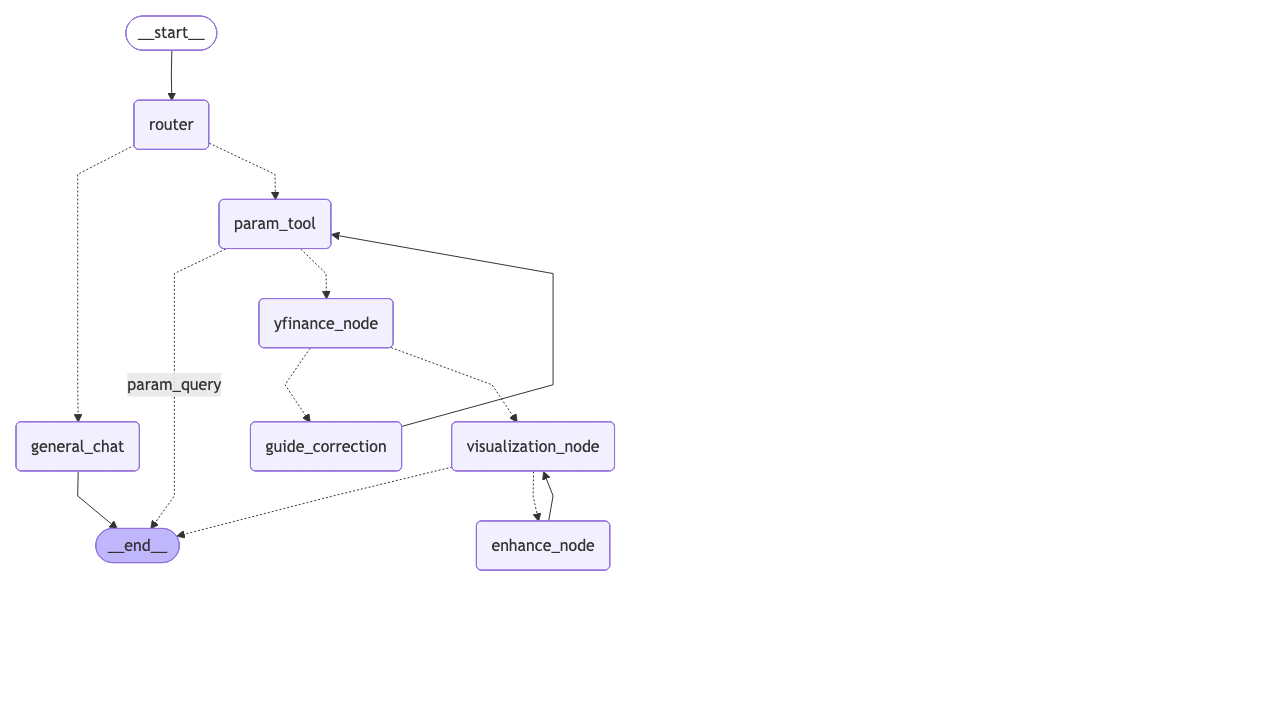
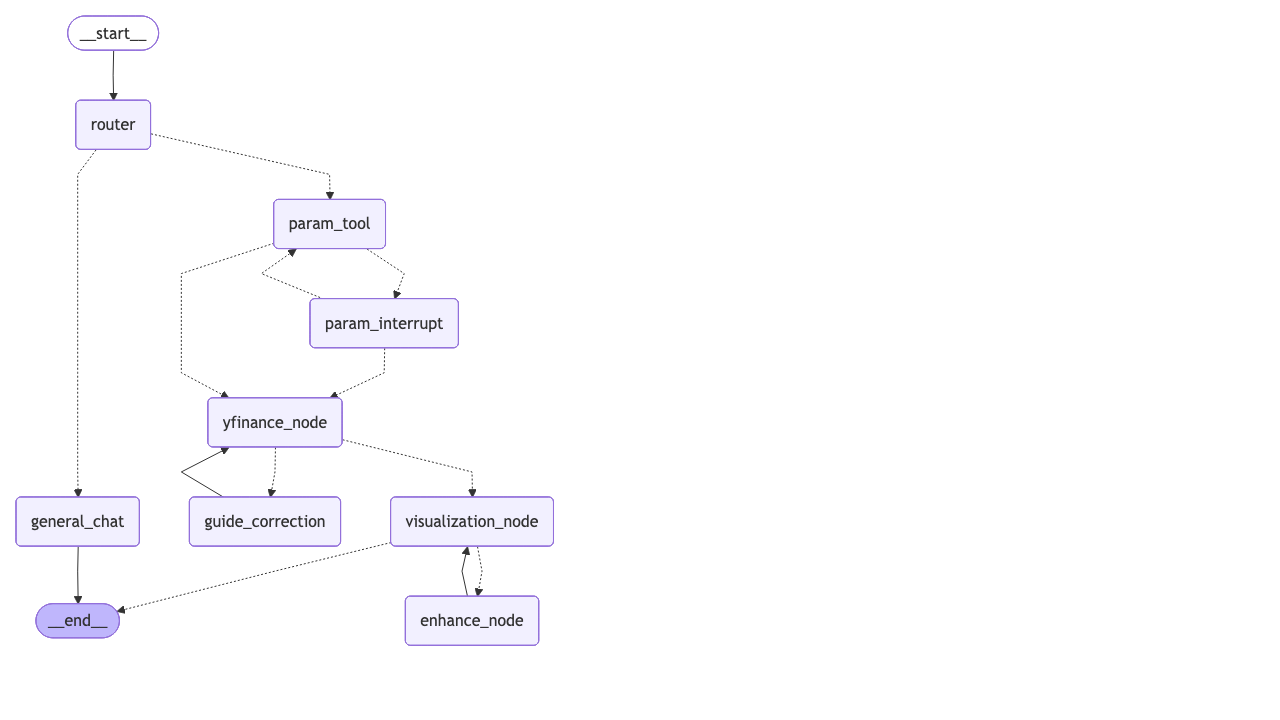
parameter 추출 완료

diff --git a/src/tools/param_tool.py b/src/tools/param_tool.py
@@ -1,16 +1,137 @@
 """
 Param Tool: 차트 생성에 필요한 파라미터 점검 및 보완
 """
-from typing import Dict, Any
-from ..schemas import State
+from typing import Dict, Any, List, Literal
+from langchain.chat_models import init_chat_model
+from langgraph.store.base import BaseStore
+from langgraph.types import interrupt, Command
+from ..schemas import State, ParamExtractionSchema
+from ..prompts import PARAM_EXTRACTION_SYSTEM_PROMPT, PARAM_EXTRACTION_USER_PROMPT
 
 
-def param_tool(state: State) -> State:
+def get_param_conversation(store: BaseStore, namespace: tuple) -> str:
+    """Store에서 파라미터 수집 대화 히스토리 가져오기"""
+    try:
+        memories = store.search(namespace)
+        if memories:
+            return memories[-1].value
+        return "파라미터 수집 대화 없음"
+    except:
+        return "파라미터 수집 대화 없음"
+
+
+def update_param_conversation(store: BaseStore, namespace: tuple, user_message: str, ai_response: str):
+    """Store에 파라미터 수집 대화 업데이트"""
+    import uuid
+    
+    existing_history = get_param_conversation(store, namespace)
+    new_entry = f"사용자: {user_message}\nAI: {ai_response}"
+    updated_history = f"{existing_history}\n{new_entry}" if existing_history != "파라미터 수집 대화 없음" else new_entry
+    
+    memory_id = str(uuid.uuid4())
+    store.put(namespace, memory_id, {"param_conversation": updated_history})
+
+
+def param_tool(state: State, store: BaseStore) -> State:
     """
     Param Tool: 차트 생성에 필요한 파라미터 점검 및 보완
     - ticker, period, interval 필수 파라미터 추출
     - 부족한 파라미터 사용자에게 질의
+    - MessagesState를 통한 대화 히스토리 관리
     """
     print("🔧 Param Tool 실행 중...")
-    # TODO: 구현
-    return {"params_complete": True, "chart_params": {"ticker": "NVDA", "period": "1y", "interval": "1d"}}
+    
+    # LLM 초기화
+    llm = init_chat_model("openai:gpt-4o", temperature=0.0)
+    llm_param = llm.with_structured_output(ParamExtractionSchema)
+    
+    # LLM 호출 - state["messages"]를 사용하여 전체 대화 히스토리 전달
+    # ❓ 전체 대화 히스토리 전달하는게 낫겠지?
+    result = llm_param.invoke([
+        {"role": "system", "content": PARAM_EXTRACTION_SYSTEM_PROMPT}
+    ] + state["messages"])
+    
+    print(f"파라미터 추출 결과: {result}")
+    
+    # 파라미터 완성도 확인
+    if result.is_complete:
+        # 모든 파라미터가 있으면 다음 단계로
+        chart_params = {
+            "ticker": result.ticker,
+            "period": result.period or "1y",
+            "interval": result.interval or "1d",
+            "chart_type": result.chart_type or "candlestick",
+            "indicators": result.indicators or ["MA", "Volume"]
+        }
+        
+        print(f"✅ 파라미터 수집 완료: {chart_params}")
+        
+        return {
+            "params_complete": True,
+            "chart_params": chart_params,
+            "messages": [{"role": "assistant", "content": f"파라미터 수집이 완료되었습니다: {chart_params}"}]
+        }
+    else:
+        # 부족한 파라미터가 있으면 사용자에게 질의
+        missing_params = result.missing_params
+        response = f"차트 생성을 위해 다음 정보가 필요합니다:\n"
+        
+        if "period" in missing_params:
+            response += "• 기간을 선택해주세요: 1일, 1주, 1개월, 3개월, 6개월, 1년, 2년\n"
+        if "interval" in missing_params:
+            response += "• 간격을 선택해주세요: 1분, 5분, 15분, 1시간, 4시간, 1일\n"
+        if "chart_type" in missing_params:
+            response += "• 차트 타입을 선택해주세요: 캔들스틱(기본), 라인, 바, 영역\n"
+        if "indicators" in missing_params:
+            response += "• 지표를 선택해주세요 (여러 개 선택 가능): 종가, 이동평균, RSI, MACD, 거래량, 볼린저밴드\n"
+        
+        print(f"❓ 부족한 파라미터: {missing_params}")
+        
+        # Interrupt 없이 응답만 반환 (interrupt handler에서 처리)
+        return {
+            "params_complete": False,
+            "chart_output": response,
+            "missing_params": missing_params,
+            "messages": [{"role": "assistant", "content": response}]
+        }
+
+
+def param_interrupt_handler(state: State) -> Command[Literal["param_tool", "yfinance_node"]]:
+    """파라미터 수집 중 사용자 입력을 받는 interrupt handler"""
+    
+    # 파라미터가 완성되었으면 yfinance_node로 이동
+    if state.get("params_complete"):
+        print("✅ 파라미터 수집 완료 → yfinance_node로 이동")
+        return Command(goto="yfinance_node")
+    
+    # 파라미터가 부족하면 사용자 입력을 기다림 (interrupt 발생)
+    print("⏸  파라미터 부족 → interrupt 발생, 사용자 입력 대기 중...")
+    
+    # Interrupt request 생성
+    missing_params = state.get("missing_params", []) # 부족한 파라미터를 가져옴
+    response_message = state.get("chart_output", "") # 응답 메시지를 가져옴
+    
+    # request: 어떤 parameter가 부족한지 설정
+    request = {
+        "action_request": {
+            "action": "파라미터 수집",
+            "args": {"missing": missing_params} # 부족한 파라미터를 설정
+        },
+        "description": response_message, # 응답 메시지를 설정
+    }
+    
+    # Interrupt 호출 - 워크플로우를 멈추고 외부에서 resume을 기다림
+    user_input = interrupt([request])[0]
+    
+    # Resume으로 받은 사용자 입력 처리
+    print(f"▶  사용자 입력 받음: {user_input}")
+    
+    # 기존 messages에 사용자 입력 추가
+    existing_messages = state.get("messages", [])
+    updated_messages = existing_messages + [{"role": "user", "content": user_input}] # 기존 messages에 사용자 입력 추가
+    
+    # param_tool로 돌아가서 재검증
+    return Command(
+        goto="param_tool",
+        update={"messages": updated_messages, "user_message": user_input}
+    )

diff --git a/main.py b/main.py
@@ -24,7 +24,10 @@ if __name__ == "__main__":
     print("종료하려면 'quit' 또는 'exit'를 입력하세요.\n")
     
     # Thread ID 설정 (대화 세션 관리)
-    thread_id = "user_session_1"
+    import uuid
+    from langgraph.types import Command
+    
+    thread_id = str(uuid.uuid4())
     config = {"configurable": {"thread_id": thread_id}}
     
     while True:
@@ -42,20 +45,75 @@ if __name__ == "__main__":
                 print("❌ 메시지를 입력해주세요.")
                 continue
             
-            # 워크플로우 실행
+            print("🔄 처리 중...")
+            
+            # 워크플로우 시작
             initial_state = {
                 "user_message": user_input,
-                "enhancement_mode": False
+                "enhancement_mode": False,
+                "messages": [{"role": "user", "content": user_input}]
             }
             
-            print("🔄 처리 중...")
-            result = workflow.invoke(initial_state, config)
+            # Stream으로 실행하여 interrupt 감지
+            max_interrupts = 3  # 최대 3번까지 interrupt 처리
+            interrupt_count = 0
             
-            # 결과 출력
-            if "chart_output" in result:
-                print(f"🤖 AI: {result['chart_output']}")
+            # 첫 실행
+            for chunk in workflow.stream(initial_state, config):
+                if '__interrupt__' in chunk:
+                    interrupt_count += 1
+                    break
+            
+            # Interrupt 처리 루프 (최대 3번)
+            while interrupt_count > 0 and interrupt_count <= max_interrupts:
+                # 현재 상태에서 interrupt 정보 가져오기
+                state = workflow.get_state(config)
+                if not state.next:  # interrupt가 없으면 종료
+                    break
+                
+                # Interrupt 메시지 출력
+                current_values = state.values
+                if "chart_output" in current_values:
+                    print(f"🤖 AI: {current_values['chart_output']}")
+                print("-" * 50)
+                
+                # 사용자 입력 받기
+                while True:
+                    additional_input = input("💬 사용자: ").strip()
+                    
+                    if additional_input.lower() in ['quit', 'exit', '종료']:
+                        print("👋 시스템을 종료합니다.")
+                        exit(0)
+                    
+                    if additional_input:
+                        break
+                    print("❌ 메시지를 입력해주세요.")
+                
+                print("🔄 처리 중...")
+                
+                # Resume: Command로 사용자 입력 전달
+                has_interrupt = False
+                for resume_chunk in workflow.stream(
+                    Command(resume=[additional_input]), 
+                    config
+                ):
+                    if '__interrupt__' in resume_chunk:
+                        has_interrupt = True
+                        interrupt_count += 1
+                        break
+                
+                # Interrupt가 더 이상 없으면 루프 종료
+                if not has_interrupt:
+                    break
+            
+            # 최종 결과 확인
+            state = workflow.get_state(config)
+            final_values = state.values
+            
+            if "chart_output" in final_values:
+                print(f"🤖 AI: {final_values['chart_output']}")
             else:
-                print(f"🤖 AI: {result}")
+                print(f"✅ 작업이 완료되었습니다.")
             
             print("-" * 50)
             
@@ -64,4 +122,6 @@ if __name__ == "__main__":
             break
         except Exception as e:
             print(f"❌ 오류가 발생했습니다: {e}")
+            import traceback
+            traceback.print_exc()
             print("-" * 50)

diff --git a/src/workflow/workflow.py b/src/workflow/workflow.py
@@ -7,7 +7,7 @@ from langgraph.store.memory import InMemoryStore
 from ..schemas import State
 from ..agents.router_agent import router_agent
 from ..agents.general_chat_agent import general_chat_agent
-from ..tools.param_tool import param_tool
+from ..tools.param_tool import param_tool, param_interrupt_handler
 from ..tools.yfinance_tool import yfinance_node
 from ..tools.guide_correction_tool import guide_correction_node
 from ..tools.visualization_tool import visualization_node
@@ -31,6 +31,7 @@ def create_workflow():
         .add_node("router", router_agent)
         .add_node("general_chat", general_chat_agent)
         .add_node("param_tool", param_tool)
+        .add_node("param_interrupt", param_interrupt_handler)
         .add_node("yfinance_node", yfinance_node)
         .add_node("guide_correction", guide_correction_node)
         .add_node("visualization_node", visualization_node)
@@ -45,13 +46,13 @@ def create_workflow():
         .add_edge("general_chat", END)
         .add_conditional_edges("param_tool", should_request_params, {
             "yfinance_node": "yfinance_node",
-            "param_query": END  # 파라미터 부족시 사용자에게 재질의
+            "param_interrupt": "param_interrupt"  # 파라미터 부족시 interrupt handler로
         })
         .add_conditional_edges("yfinance_node", should_guide_correction, {
             "visualization_node": "visualization_node",
             "guide_correction": "guide_correction"
         })
-        .add_edge("guide_correction", "param_tool")  # 수정 후 파라미터 재검증
+        .add_edge("guide_correction", "yfinance_node")  # 수정 후 데이터 재시도
         .add_conditional_edges("visualization_node", should_enhance, {
             "enhance_node": "enhance_node",
             END: END

diff --git a/src/schemas.py b/src/schemas.py
@@ -1,12 +1,14 @@
 """
 데이터 모델 및 스키마 정의
 """
-from typing import TypedDict, Dict, Any, List, Optional, Literal
+from typing import TypedDict, Dict, Any, List, Optional, Literal, Annotated
 from pydantic import BaseModel, Field
+from langgraph.graph import MessagesState
+from langgraph.graph.message import add_messages
 
 
-class State(TypedDict):
-    """워크플로우 상태 정의"""
+class State(MessagesState):
+    """워크플로우 상태 정의 - MessagesState를 상속하여 messages 자동 관리"""
     user_message: str
     is_chart_request: bool
     routing_decision: str
@@ -24,6 +26,18 @@ class RouterSchema(BaseModel):
     is_chart_request: bool = Field(
         description="차트 요청인지 여부 (True: 차트 요청, False: 일반 대화)"
     )
+
+
+class ParamExtractionSchema(BaseModel):
+    """파라미터 추출 결과"""
+    reasoning: str = Field(description="파라미터 추출 근거")
+    ticker: str = Field(description="주식 심볼 (예: NVDA, AAPL)")
+    period: Optional[str] = Field(description="기간 (예: 1y, 6mo, 3mo)")
+    interval: Optional[str] = Field(description="간격 (예: 1d, 1h, 5m)")
+    chart_type: Optional[str] = Field(description="차트 타입 (예: candlestick, line)")
+    indicators: Optional[List[str]] = Field(description="기술적 지표 (예: MA, RSI, MACD)")
+    missing_params: List[str] = Field(description="부족한 파라미터 목록")
+    is_complete: bool = Field(description="모든 필수 파라미터가 있는지 여부")
 
 
 class ChartParams(TypedDict):

diff --git a/src/prompts.py b/src/prompts.py
@@ -43,3 +43,31 @@ GENERAL_CHAT_USER_PROMPT = """이전 대화:
 현재 질문: {user_message}
 
 위 질문에 답변하고, 주식 관련이면 차트 시각화를 제안해주세요."""
+
+# Param Tool 프롬프트
+PARAM_EXTRACTION_SYSTEM_PROMPT = """당신은 차트 생성에 필요한 파라미터를 추출하는 도구입니다.
+
+## 필수 파라미터 (모두 있어야 함)
+- ticker: 주식 심볼 (주식명을 심볼로 변환)
+- period: 기간 (1d, 1w, 1mo, 3mo, 6mo, 1y, 2y)
+- interval: 간격 (1m, 5m, 15m, 1h, 4h, 1d)
+- chart_type: 차트 타입 (candlestick, line, bar, area)
+- indicators: 기술적 지표 (price, MA, RSI, MACD, Volume, Bollinger) - 리스트로 반환
+
+## 주식명 → 심볼 변환 예시
+- 엔비디아 → NVDA
+- 애플 → AAPL
+- 마이크로소프트 → MSFT
+- 테슬라 → TSLA
+- 삼성전자 → 005930.KS (한국 주식)
+
+## 중요
+- 모든 파라미터가 있어야 is_complete=True
+- 하나라도 없으면 is_complete=False
+- 부족한 파라미터를 missing_params에 명시
+
+사용자 메시지에서 파라미터를 추출하고, 부족한 파라미터를 식별해주세요."""
+
+PARAM_EXTRACTION_USER_PROMPT = """사용자 메시지: {user_message}
+
+위 메시지에서 차트 생성에 필요한 파라미터를 추출해주세요."""

diff --git a/src/workflow/conditions.py b/src/workflow/conditions.py
@@ -13,7 +13,7 @@ def should_route_to_chart(state: State) -> str:
 
 def should_request_params(state: State) -> str:
     """파라미터 완성도 확인"""
-    return "yfinance_node" if state.get("params_complete") else "param_query"
+    return "yfinance_node" if state.get("params_complete") else "param_interrupt"
 
 
 def should_guide_correction(state: State) -> str:

diff --git a/README.md b/README.md
@@ -12,3 +12,6 @@ Agent → User: "[차트 이미지] 추가 지표 넣을까요? (/edit add rsi |
 User → Agent: "/edit add rsi"
 Agent: rsi 오버레이를 포함하는 .html 인터랙티브 이미지 제공
 e dd
+
+
+문제점: 현재 주식차트 그리고 난 뒤에 어떤 주식 차트를 그렸는지 알고있지 못함 => memory쪽 다시 봐야할듯!
